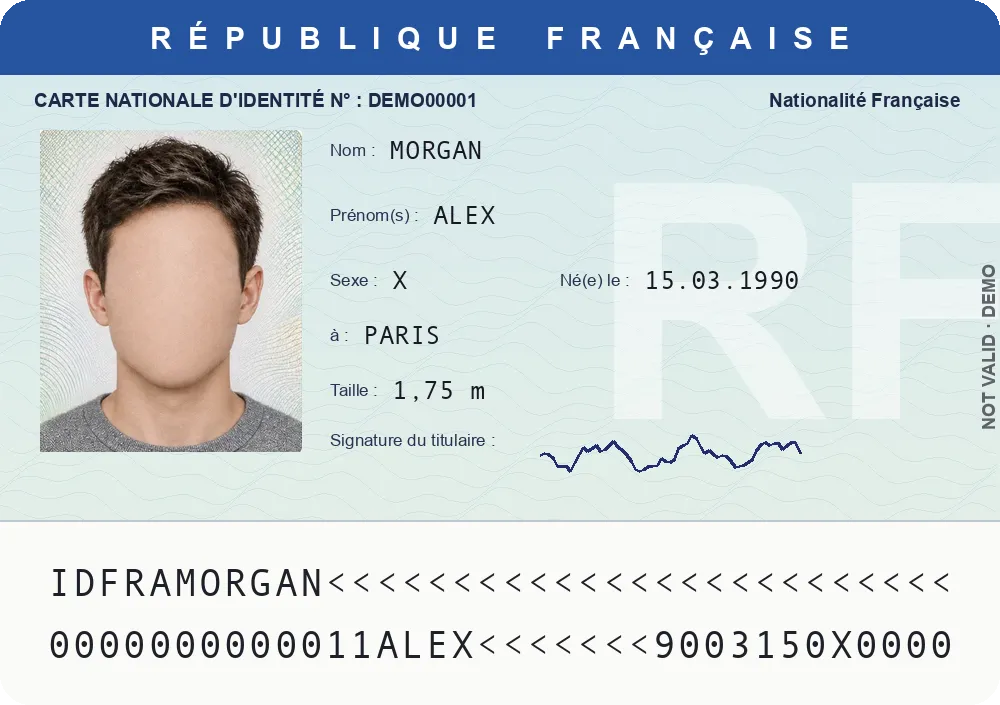
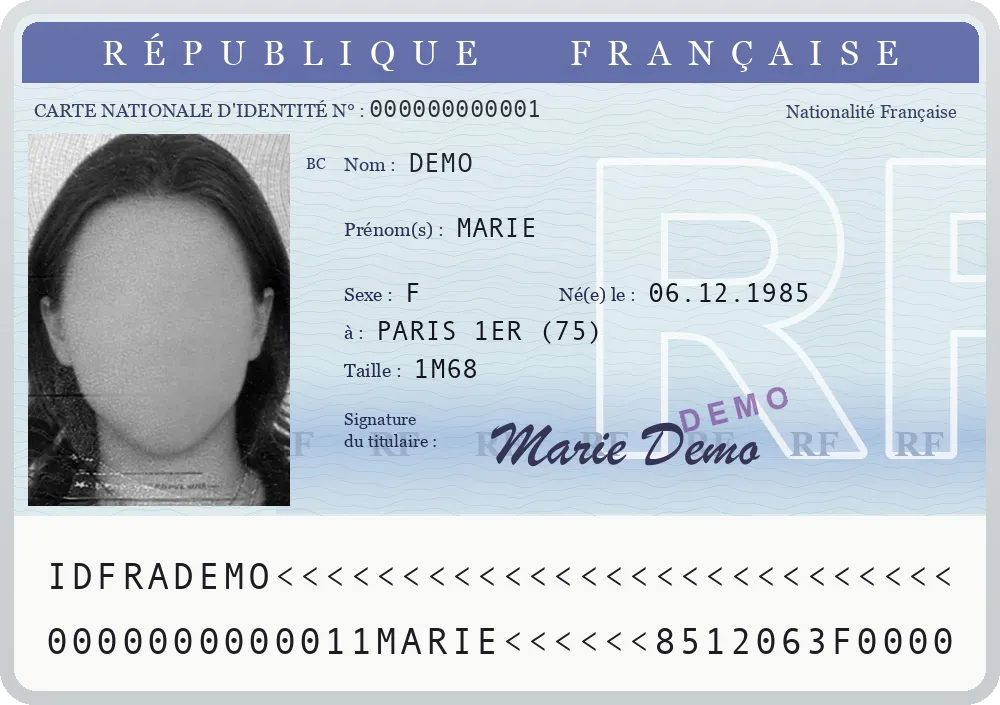
Autoform prototype: closer old French and classic Romanian ID demos
Redrawn from the PRADO photos: laminated French card with the polymer edge,
blue serif header, outlined RF, black-and-white photo and handwritten signature;
classic Romanian card with the tricolour ROMANIA header, CNP/series row, coat of
arms, ghost photo and MRZ band. Faces come from each country's demo passport.

diff --git a/docs/autoform/variants.js b/docs/autoform/variants.js
@@ -9,8 +9,8 @@
 
   if(typeof documentLayouts!=='undefined')Object.assign(documentLayouts,{
     'generic-id-front-mrz':[['photo',3.5,19,33,52],['text',39,24,25,12,2],['text',39,49,20,12,2],['text',58,49,20,12,2],['text',76,9,20,6,1],['mrz',4,73,92,24,2]],
-    'FR-id-paper-front':[['text',3,12,92,4,1],['photo',4,18.4,26.2,45.7],['text',32,18,30,40,5],['sign',53,60,27,8],['mrz',4.6,77.5,90.8,18.5,2]],
-    'RO-id-classic-front':[['text',4,15,45,6,2],['photo',5,20.9,22.8,44.7],['text',29,20,30,50,5],['ghost',86,20.9,9.6,18.7],['mrz',4.6,74.5,90.8,22,2]],
+    'FR-id-paper-front':[['text',3,14,52,4,1],['photo',2.8,19,26.2,52.8],['text',33,20,30,35,5],['sign',48,59,28,8],['mrz',4.4,77,91,19,2]],
+    'RO-id-classic-front':[['text',29,12,40,8,2],['photo',2,12,25.8,50.4],['text',29,21,25,50,7],['ghost',85.8,19,11.2,21.9],['mrz',4,75.8,92,19.3,2]],
   });
 
   // Older model with the reading lines on the front (two lines of 36 characters, below the photo)
@@ -26,12 +26,12 @@
     FR:{id:{label:'ID card · since 2021',hint:'Bank-card size. Lines on the back.'},
         'id-paper':frontMrzModel('FR','ID card · before 2021','Laminated paper card. Lines on the front.',
           'https://www.consilium.europa.eu/prado/en/prado-documents/FRA/B/docs-per-category.html',
-          {image:'assets/catalog/FR-id-paper-front.webp',mrz:[4,76,92,21]})},
+          {image:'assets/catalog/FR-id-paper-front.webp',mrz:[4,75,92,22]})},
     // PRADO ROU-BO-05001/05002/06001 (since 2021, with or without chip) and ROU-BO-01002 to 04001 (classic, 2001-2021, blank back)
     RO:{id:{label:'ID card · since 2021',hint:'Bank-card size with the flag. Lines on the back.'},
         'id-classic':frontMrzModel('RO','ID card · before 2021','Classic card. Lines on the front, under the photo.',
           'https://www.consilium.europa.eu/prado/en/prado-documents/ROU/B/docs-per-category.html',
-          {image:'assets/catalog/RO-id-classic-front.webp',mrz:[4,74,92,23]})},
+          {image:'assets/catalog/RO-id-classic-front.webp',mrz:[3,74,94,23]})},
     AE:{id:{label:'Emirates ID'}},
   };
   for(const [code,docs] of Object.entries(models)){
